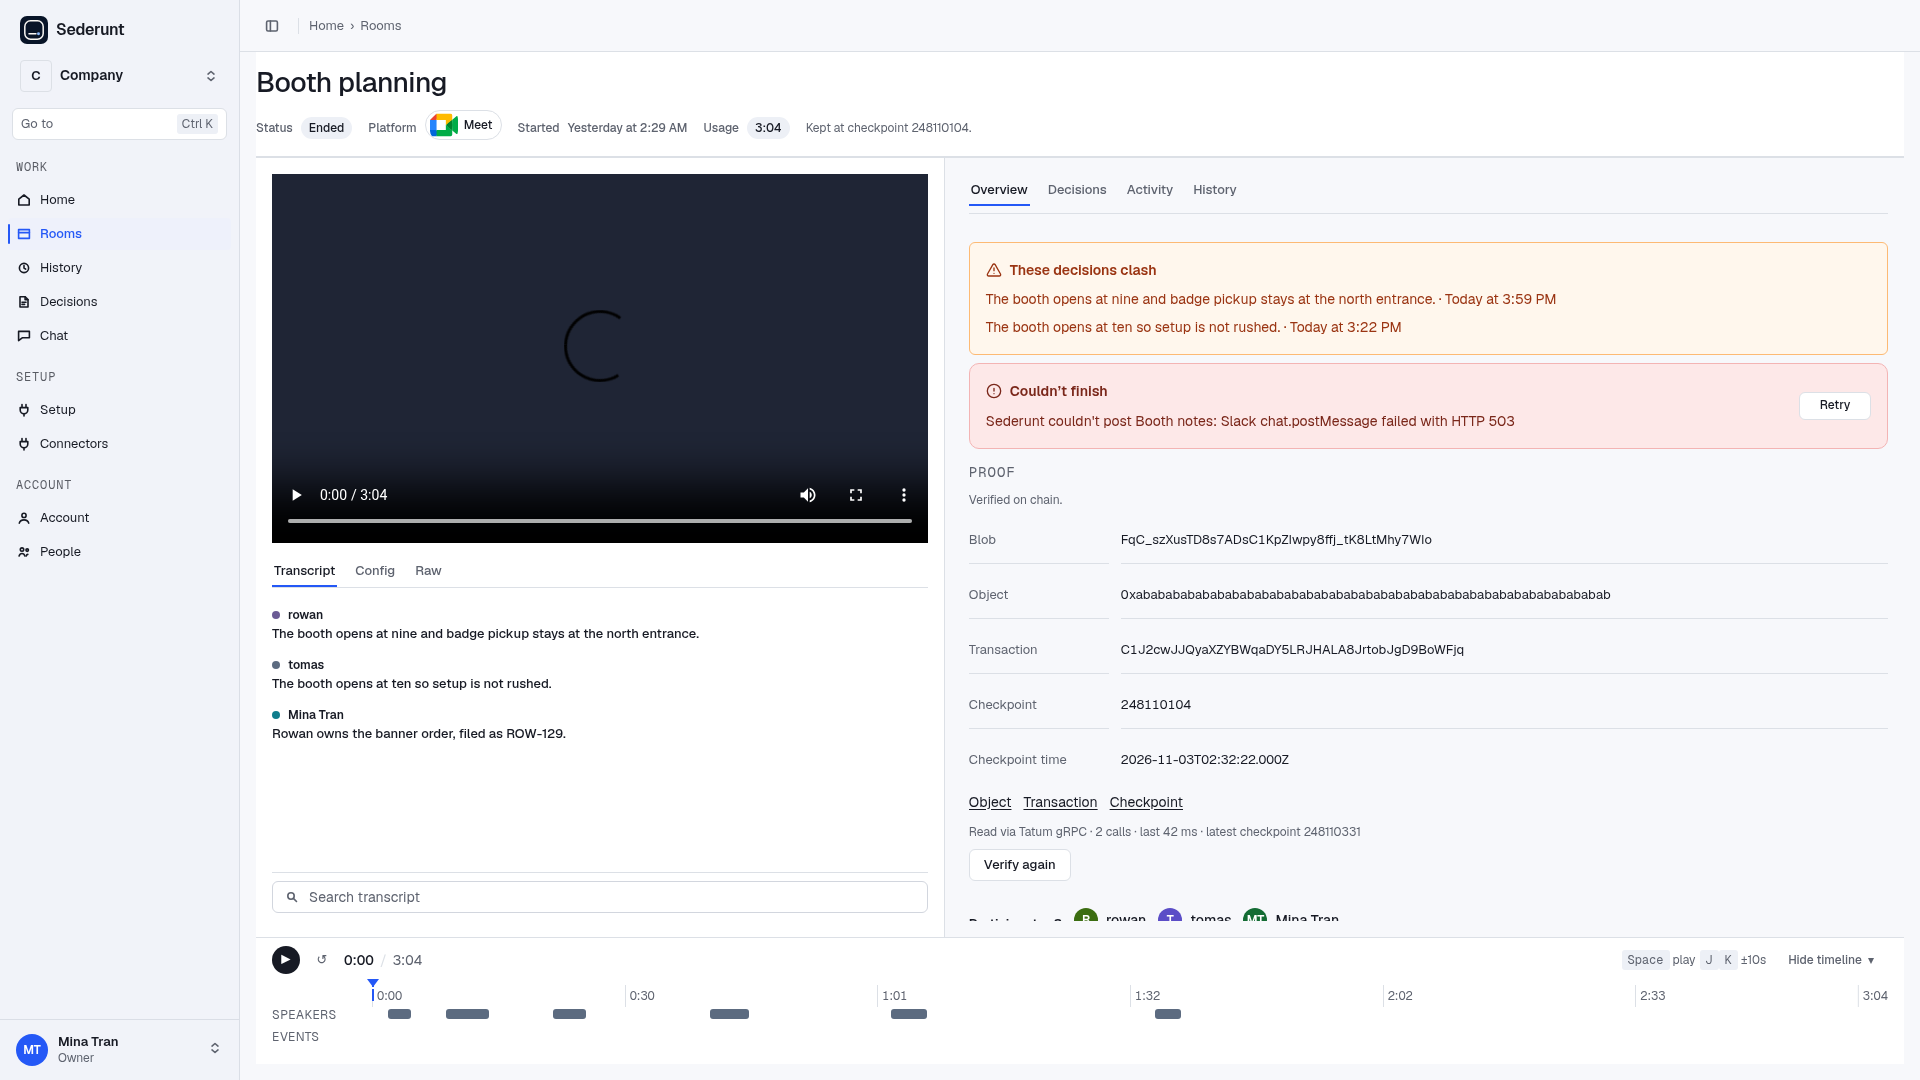
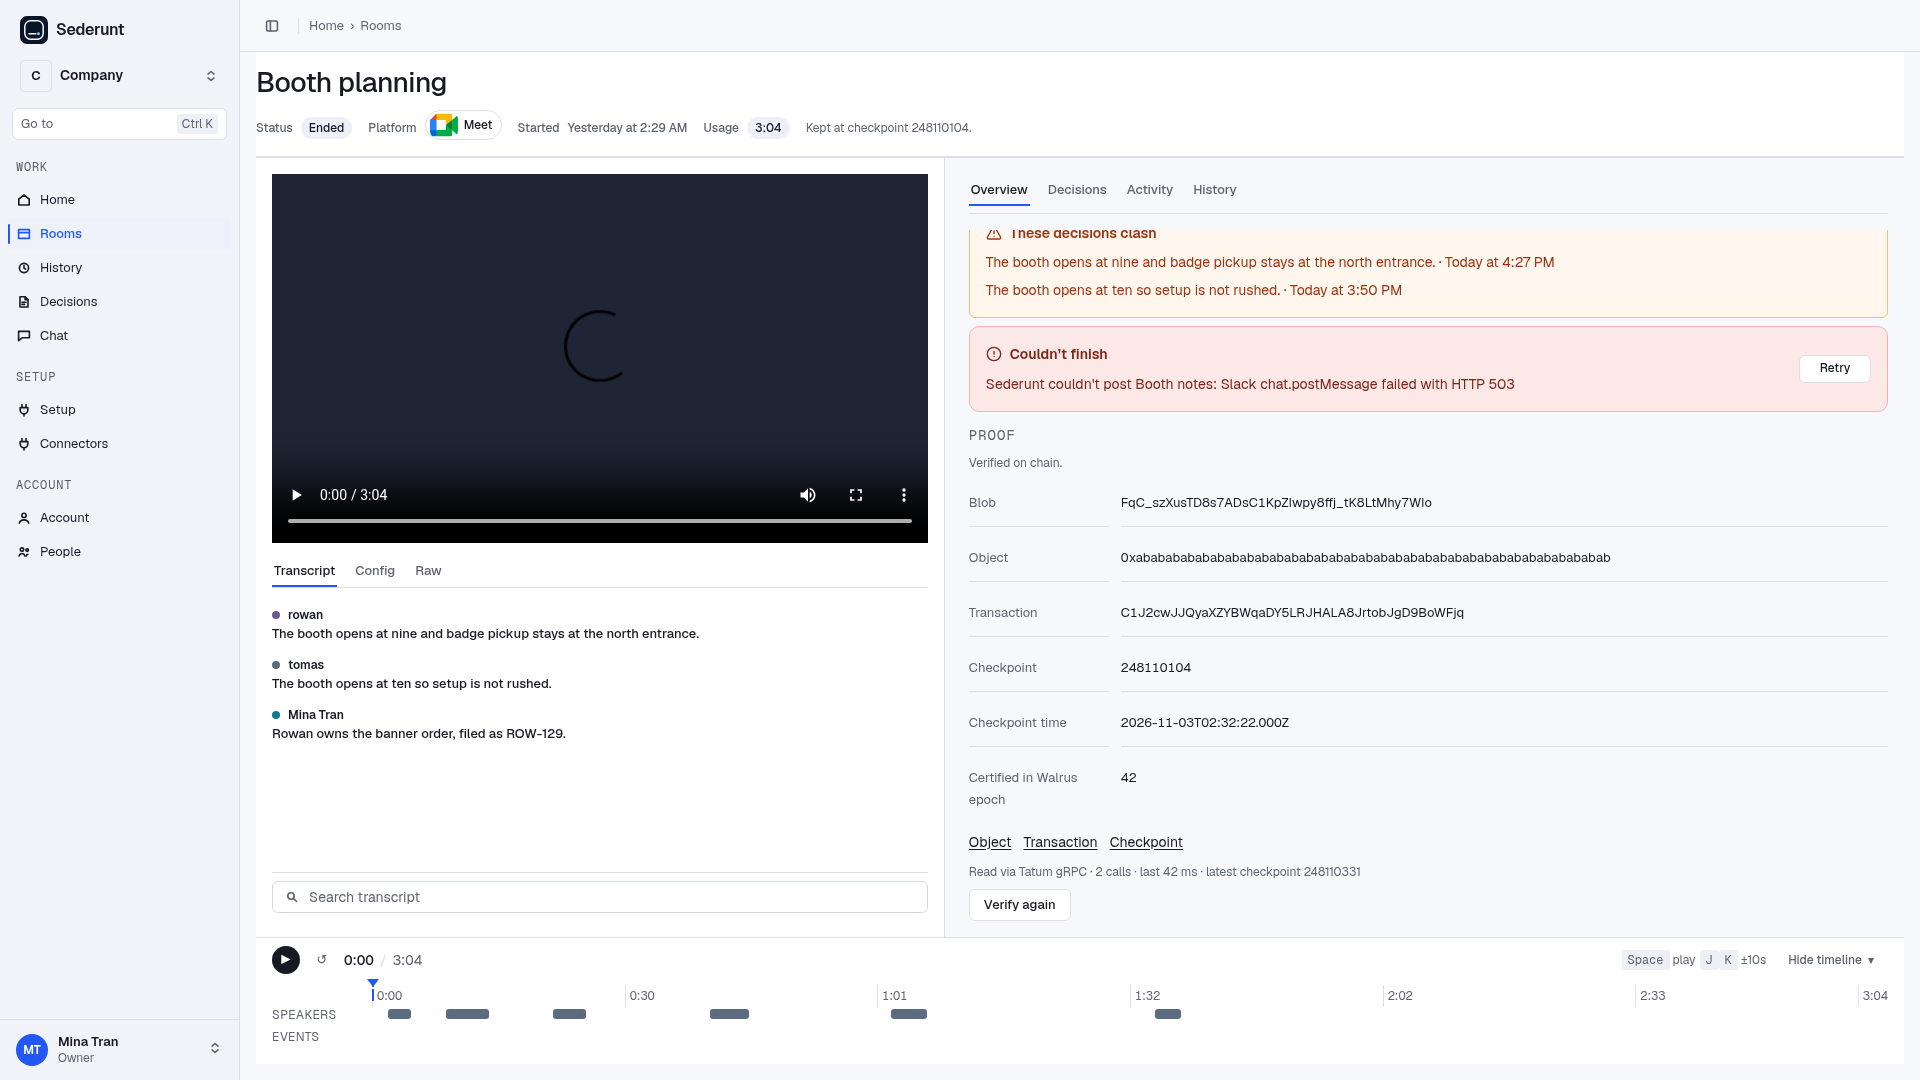
feat(proof): show the certified Walrus epoch
Decoded from the Blob object read through Tatum. Screens recaptured at 1920, 1097 and 390.

diff --git a/src/tatum/proof.js b/src/tatum/proof.js
@@ -1,10 +1,10 @@
 import { blobIdBytes, decodeBlobContent } from "../memory/blob.js";
 
 /**
- * A memory is verified when the Blob exists, its blob id matches, it is
- * certified, the owner matches when one was expected, and the certifying
- * checkpoint and time are known. A mismatch is unverified. A missing read
- * is unknown. The owner address is not part of the result.
+ * A memory is verified when the Blob object read through Tatum exists, its
+ * blob id matches, it is certified, the owner matches when one was expected,
+ * and the certifying checkpoint and time are known. A mismatch is unverified. A missing read is unknown. The owner address is not part of the
+ * result.
  *
  * @param {{ object?: object, blobId?: string, owner?: string }} input
  */
@@ -17,6 +17,7 @@ export function verifyMemory(input = {}) {
     digest: object?.certifyingDigest || object?.previousTransaction || null,
     checkpoint: Number.isInteger(object?.checkpoint) ? object.checkpoint : null,
     checkpointTime: typeof object?.checkpointTime === "string" ? object.checkpointTime : null,
+    certifiedEpoch: null,
   };
   if (!object?.objectId) {
     return { ...base, status: "unknown", reason: "The chain proof is incomplete." };
@@ -34,11 +35,12 @@ export function verifyMemory(input = {}) {
   if (input.owner && object.ownerAddress && object.ownerAddress.toLowerCase() !== String(input.owner).toLowerCase()) {
     hard.push("The owner does not match.");
   }
+  const proven = { ...base, certifiedEpoch: Number.isInteger(decoded.certifiedEpoch) ? decoded.certifiedEpoch : null };
   if (!Number.isInteger(object.checkpoint)) soft.push("The certifying checkpoint is unknown.");
   if (!object.checkpointTime) soft.push("The checkpoint time is unknown.");
-  if (hard.length) return { ...base, status: "unverified", reason: hard[0] };
-  if (soft.length) return { ...base, status: "unknown", reason: soft[0] };
-  return { ...base, status: "verified", reason: "The blob is certified on Sui." };
+  if (hard.length) return { ...proven, status: "unverified", reason: hard[0] };
+  if (soft.length) return { ...proven, status: "unknown", reason: soft[0] };
+  return { ...proven, status: "verified", reason: "The blob is certified on Sui." };
 }
 
 export function suiscanLinks(proof) {
@@ -68,6 +70,7 @@ export function publicProof(proof) {
     digest: typeof proof.digest === "string" ? proof.digest : null,
     checkpoint: Number.isInteger(proof.checkpoint) ? proof.checkpoint : null,
     checkpointTime: typeof proof.checkpointTime === "string" ? proof.checkpointTime : null,
+    certifiedEpoch: Number.isInteger(proof.certifiedEpoch) ? proof.certifiedEpoch : null,
   };
   view.links = suiscanLinks(view);
   return view;

diff --git a/test/hackathon.test.js b/test/hackathon.test.js
@@ -34,6 +34,7 @@ test("a certified blob with a matching id, owner, checkpoint, and time is verifi
   });
   assert.equal(proof.status, "verified");
   assert.equal(proof.reason, "The blob is certified on Sui.");
+  assert.equal(proof.certifiedEpoch, 1);
   const shown = publicProof(proof);
   assert.equal(shown.links.object, `https://suiscan.xyz/mainnet/object/${objectId}`);
   assert.equal(shown.links.tx, "https://suiscan.xyz/mainnet/tx/C1J2cwJJQyaXZYBWqaDY5LRJHALA8JrtobJgD9BoWFjq");
@@ -93,6 +94,7 @@ test("a missing object or a missing checkpoint is unknown", () => {
   });
   assert.equal(soft.status, "unknown");
   assert.match(soft.reason, /checkpoint/);
+  assert.equal(soft.certifiedEpoch, 1);
 });
 
 test("the room and the decision show a proof panel, and an answer can show why", () => {

diff --git a/src/console-page.js b/src/console-page.js
@@ -3927,7 +3927,8 @@ if (sessionWhen && sessionWhen.dataset.at) {
         ["Object", proof.objectId || (decision && decision.objectId) || ""],
         ["Transaction", proof.digest || (decision && decision.digest) || ""],
         ["Checkpoint", proof.checkpoint != null ? String(proof.checkpoint) : (decision && typeof decision.checkpoint === "number" ? String(decision.checkpoint) : "")],
-        ["Checkpoint time", proof.checkpointTime || ""]
+        ["Checkpoint time", proof.checkpointTime || ""],
+        ["Certified in Walrus epoch", proof.certifiedEpoch != null ? String(proof.certifiedEpoch) : ""]
       ];
       rows.forEach(function (pair) {
         if (!pair[1]) return;

diff --git a/src/memory/blob.js b/src/memory/blob.js
@@ -33,7 +33,10 @@ export function decodeBlobContent(buffer) {
   if (bytes.length < 78) return { blobIdBytes: id, certified: null };
   const tag = bytes[77];
   if (tag === 0) return { blobIdBytes: id, certified: false };
-  if (tag === 1) return { blobIdBytes: id, certified: true };
+  if (tag === 1) {
+    const certifiedEpoch = bytes.length >= 82 ? bytes.readUInt32LE(78) : null;
+    return { blobIdBytes: id, certified: true, certifiedEpoch };
+  }
   return { blobIdBytes: id, certified: null };
 }
 
